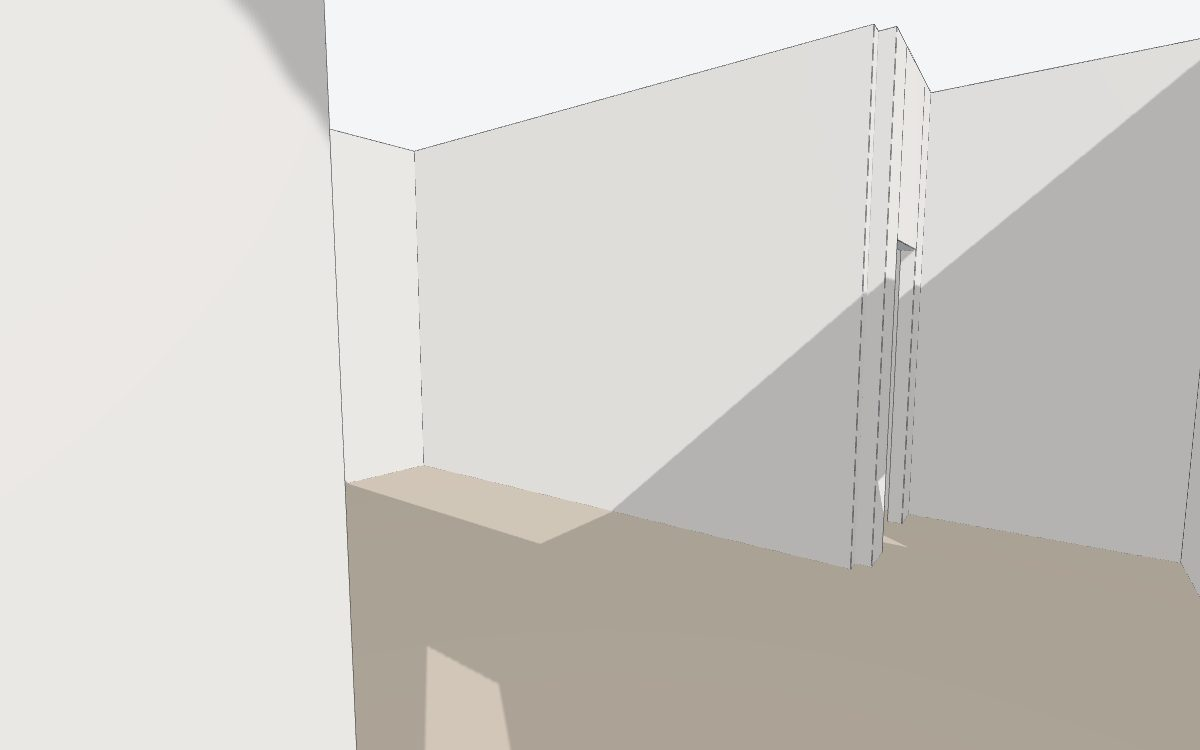
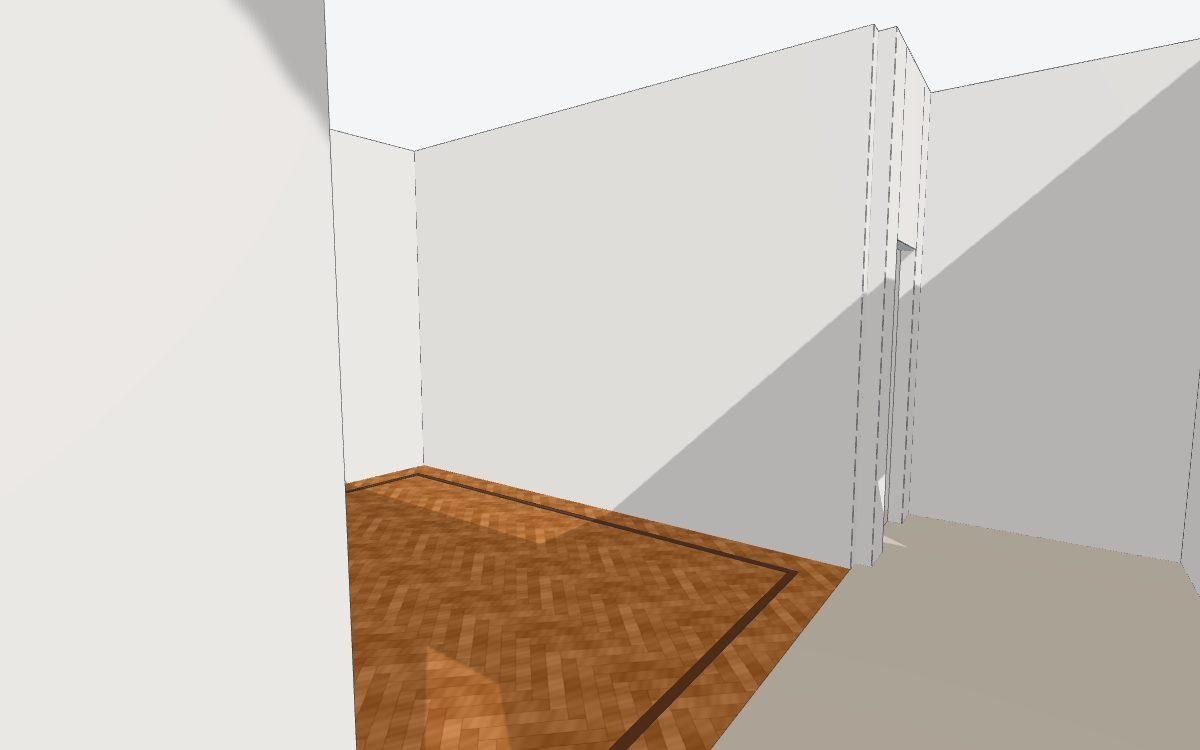
casa-poggi: herringbone parquet with a dark border band in the soggiorno
The texture is generated procedurally (seamless 45 degree herringbone,
7 x 42 cm boards) to match the user's photo.

Claude-Session: https://claude.ai/code/session_017Czcnh6xzZxgGSwco7M1Pu

Changed region(s): [[0.2775, 0.6133, 0.7092, 1.0]]

diff --git a/projects/casa-poggi/house.js b/projects/casa-poggi/house.js
@@ -18,6 +18,7 @@ const ROOMS = {                    // clear interior sizes
   ingresso:  { w: 500, d: 160 },   // measured
   camera:    { w: 350, d: 485 },   // measured
 };
+const PARQUET = { tile: 59.4, bandOff: 25, bandW: 5, band: [92, 52, 28, 255] };   // tile = texture repeat (6 * sqrt(2) * 7 cm); border band 25 cm from the walls, 5 cm wide   estimate
 const BALC_D = 120;                // balcony depth                                    estimate (2 balconies ~ 7 m2 as on the drawing)
 const PF = { w: 120, h: 280 };     // porte-finestre (soggiorno, camera)               measured
 const WB = { w: 40, h: 150, sill: 110 };   // bathroom window; sill                    measured w/h, sill estimate
@@ -41,7 +42,16 @@ const C = { wall: [236, 233, 228, 255], floor: [196, 186, 172, 255], balcony: [1
 const pf = (cx) => ({ from: cx - PF.w / 2, to: cx + PF.w / 2, head: PF.h });
 
 // ---------- floor ----------
-box('/Casa/Pavimento_Zona_Giorno', C.floor, -TE, YI0 - TI, -4, XR + TE, YS1 + TE, 0);
+box('/Casa/Pavimento_Ingresso', C.floor, -TE, YI0 - TI, -4, XR + TE, YS0, 0);
+box('/Casa/Pavimento_Bagno', C.floor, ROOMS.soggiorno.w, YS0, -4, XR + TE, YS1 + TE, 0);
+// soggiorno: herringbone parquet (honey oak, 7 x 42 cm boards at 45 degrees, from the user's photo) + darker border band   pattern measured on photo, sizes estimate
+slab('/Casa/Soggiorno/Parquet', [150, 95, 50, 255], [[0, YS0], [ROOMS.soggiorno.w, YS0], [ROOMS.soggiorno.w, YS1 + TE], [0, YS1 + TE]], -4, 0);
+kit.items[kit.items.length - 1].tex = { url: 'textures/parquet-spina.png', tile: kit.inch(PARQUET.tile) };
+{ const o = PARQUET.bandOff, w = PARQUET.bandW, x1 = ROOMS.soggiorno.w, z = 0.3;
+  box('/Casa/Soggiorno/Fascia_Sud', PARQUET.band, o, YS0 + o, 0, x1 - o, YS0 + o + w, z);
+  box('/Casa/Soggiorno/Fascia_Nord', PARQUET.band, o, YS1 - o - w, 0, x1 - o, YS1 - o, z);
+  box('/Casa/Soggiorno/Fascia_Ovest', PARQUET.band, o, YS0 + o + w, 0, o + w, YS1 - o - w, z);
+  box('/Casa/Soggiorno/Fascia_Est', PARQUET.band, x1 - o - w, YS0 + o + w, 0, x1 - o, YS1 - o - w, z); }
 box('/Casa/Pavimento_Camera', C.floor, XC0 - TE, -TE, -4, XR + TE, YI0 - TI, 0);
 
 // ---------- exterior walls ----------
